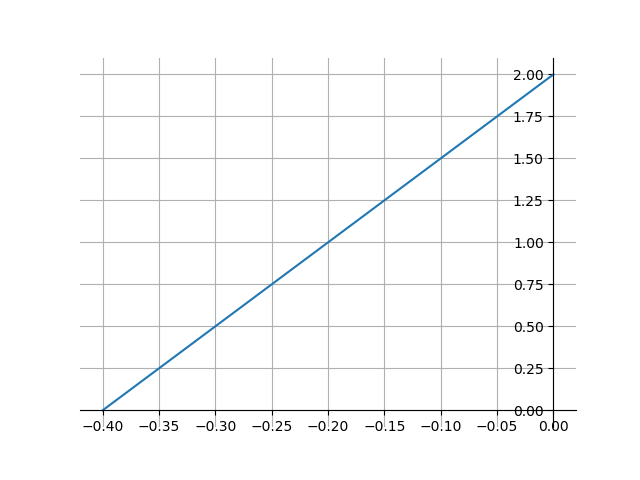
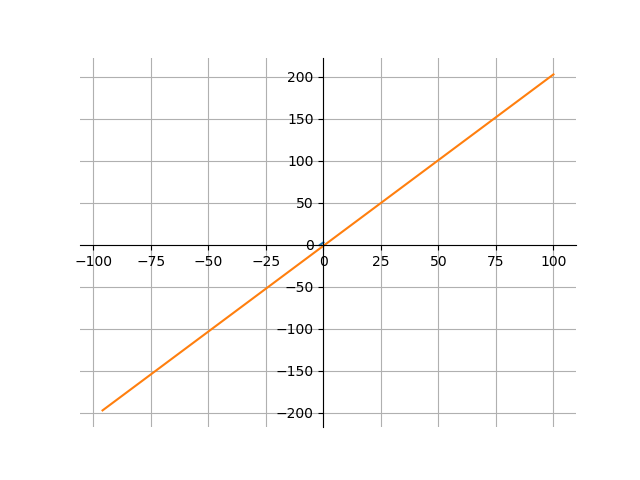
am rezolvat problema =))

diff --git a/math5 test.py b/math5 test.py
@@ -1,0 +1,80 @@
+
+# importa librariile necesare
+import math
+import numpy as np
+import matplotlib.pyplot as plt
+
+# defineste variabilele necesare pt calcul
+a = float(input("Introdu coeficientul lui x: "))
+b = float(input("Introdu termenul liber: "))
+m = -b/a
+
+# defineste functia
+def f(x):
+  return a*x+b
+
+# defineste variabilele necesare pt grafic
+# defineste variabilele folosite pt |b|<100*
+x1 = 100
+x2 = f(100)
+y1 = -100
+y2 = f(-100)
+
+# defineste variabilele folosite pt 100<|b|<10000
+z1 = 10000
+z2 = f(10000)
+t1 = -10000
+t2 = f(-10000)
+
+# defineste variabilele folosite pt |b|>10000
+g1 = 1000000
+g2 = f(1000000)
+h1 = -1000000
+h2 = f(-1000000)
+
+# transforma intervale in "puncte"
+A = np.linspace (m, 0)
+B = np.linspace (0, b)
+C = np.linspace (x1, y1)
+D = np.linspace (x2, y2)
+E = np.linspace (z1, t1)
+F = np.linspace (z2, t2)
+G = np.linspace (g1, h1)
+H = np.linspace (g2, h2)
+
+# afiseaza coordonatele punctelor determinate de intersectiile cu sistemul ortogonal de axe
+print ("Graficul functiei f(x) intersecteaza axa Ox in punctul: ")
+print ("(", end="")
+print(m, end="")
+print('; ', end="")
+print("0)")
+print ("Graficul functiei f(x) intersecteaza axa Oy in punctul: ")
+print ("(", end="")
+print(0, end="")
+print('; ', end="")
+print(b, end="")
+print(")")
+
+# traseaza graficul
+ax = plt.gca()
+ax.plot(A, B)
+
+if abs(b) < 100:
+    ax.plot(C, D)
+
+elif abs(b) < 10000:
+    ax.plot(E, F)
+
+else:
+    ax.plot(G, H)
+
+ax.grid(True)
+ax.spines['left'].set_position('zero')
+ax.spines['right'].set_color('none')
+ax.spines['bottom'].set_position('zero')
+ax.spines['top'].set_color('none')
+
+plt.savefig("Graficul unei functii.png")
+plt.show()
+
+# * |b| = modul din b
